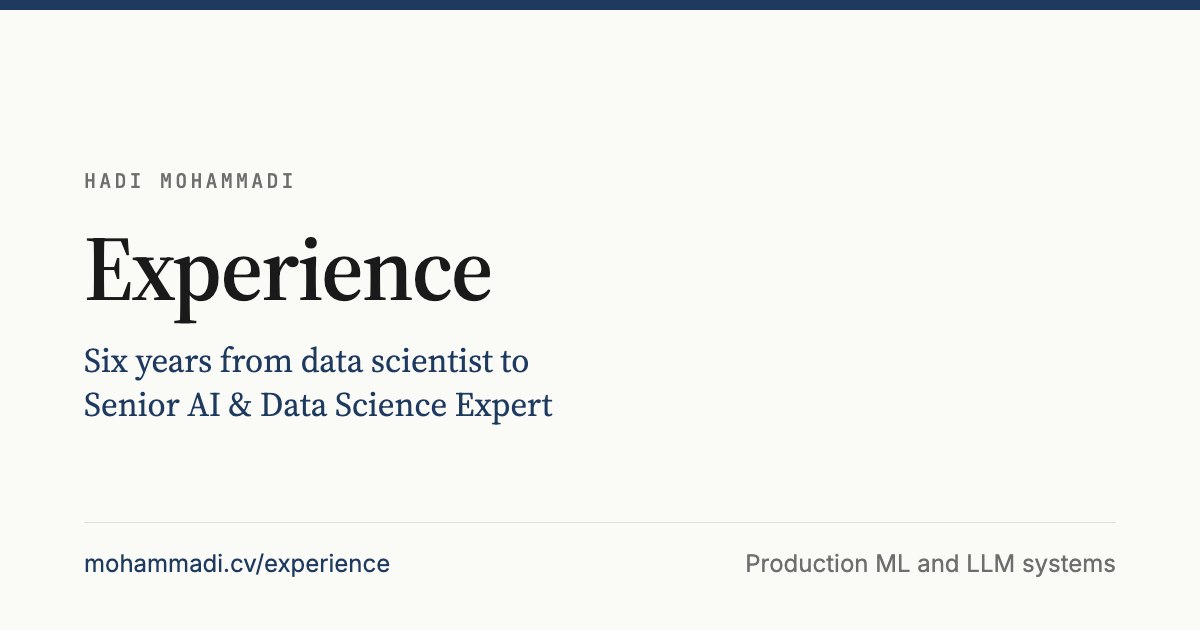
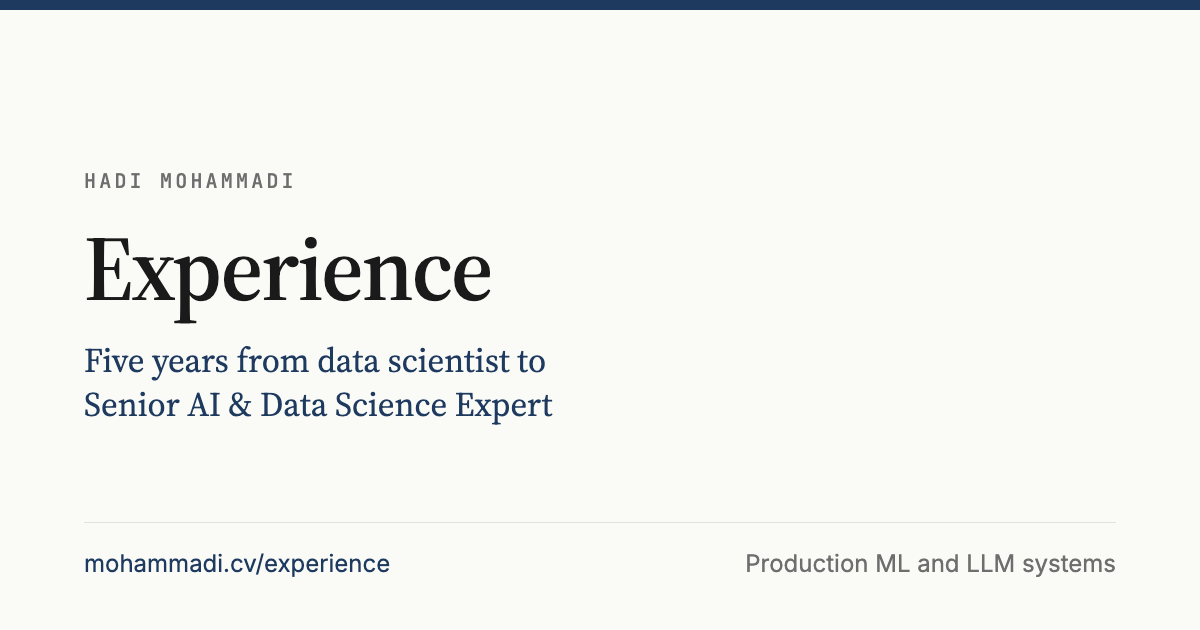
Update the site for the PhD defence and the R&D Specialist role

Changed region(s): [[0.0617, 0.5429, 0.4625, 0.6032]]

diff --git a/index.html b/index.html
@@ -15,7 +15,7 @@
   <meta property="og:image" content="https://mohammadi.cv/assets/img/og-card.jpg">
   <meta property="og:image:width" content="1200">
   <meta property="og:image:height" content="630">
-  <meta property="og:image:alt" content="Title card for Hadi Mohammadi — Machine Learning Scientist and NLP Researcher.">
+  <meta property="og:image:alt" content="Portrait of Hadi Mohammadi.">
   <meta property="og:url" content="https://mohammadi.cv/">
   <meta property="og:type" content="website">
 
@@ -31,7 +31,7 @@
     "@context": "https://schema.org",
     "@type": "Person",
     "name": "Hadi Mohammadi",
-    "jobTitle": "Senior AI & Data Science Expert · PhD in Explainable NLP",
+    "jobTitle": "Senior AI & Data Science Expert - R&D Specialist",
     "worksFor": { "@type": "Organization", "name": "AcademicTransfer" },
     "affiliation": { "@type": "Organization", "name": "Utrecht University" },
     "url": "https://mohammadi.cv/",
@@ -107,7 +107,7 @@
             <h1 class="hero-name">Hadi Mohammadi</h1>
             <p class="hero-role">I build production LLM and ranking systems, and research explainable NLP and LLM evaluation.</p>
             <p class="hero-intro">
-              Senior AI &amp; Data Science Expert at <a href="https://corporate.academictransfer.com/">AcademicTransfer</a> and
+              Senior AI &amp; Data Science Expert - R&amp;D Specialist at <a href="https://corporate.academictransfer.com/">AcademicTransfer</a> and
               PhD in Explainable NLP from <a href="https://www.uu.nl/">Utrecht University</a>.
               My work sits where the two meet: ML systems that are measurably useful in
               production, and research that makes them explainable and fair.
@@ -135,7 +135,7 @@
         </div>
         <div class="hero-stats">
           <div class="stat">
-            <div class="stat-value" data-scholar="citations">147</div>
+            <div class="stat-value" data-scholar="citations">151</div>
             <div class="stat-label">Citations</div>
           </div>
           <div class="stat">
@@ -143,14 +143,14 @@
             <div class="stat-label">Publications</div>
           </div>
           <div class="stat">
-            <div class="stat-value">6+</div>
+            <div class="stat-value">5+</div>
             <div class="stat-label">Years in ML</div>
           </div>
           <div class="stat">
             <div class="stat-value">€40K+</div>
             <div class="stat-label">Research grants</div>
           </div>
-          <p class="hero-stats-caption">Citations: <a href="https://scholar.google.com/citations?user=w4Jt-FAAAAAJ&amp;hl=en">Google Scholar</a> &middot; <span data-scholar-updated>updated July 2026</span></p>
+          <p class="hero-stats-caption">Citations: <a href="https://scholar.google.com/citations?user=w4Jt-FAAAAAJ&amp;hl=en">Google Scholar</a> &middot; <span data-scholar-updated>updated September 2026</span></p>
         </div>
       </div>
     </section>
@@ -165,14 +165,14 @@
         <div class="about-grid">
           <div class="prose">
             <p>
-              <strong>Six years</strong> of this work, most of it in industry. At
+              <strong>Five years</strong> of this work, most of it in industry. At
               <a href="https://corporate.academictransfer.com/">AcademicTransfer</a> I build the
               <strong>LLM matching and ranking</strong> that reads <strong>10,000+ applications a month</strong>;
               it has cut time-to-hire by <strong>20%</strong> and improved candidate–job matching by
               <strong>17%</strong>.
             </p>
             <p>
-              The PhD, at <a href="https://www.uu.nl/">Utrecht University</a>, is on
+              My PhD at <a href="https://www.uu.nl/">Utrecht University</a>, defended in September 2026, was on
               <strong>explainable NLP</strong>: why a model gave the answer it did, and whether that
               explanation can be trusted. So far, papers at <strong>ACL, ECAI and Applied Sciences</strong>
               and just over <strong>€40,000</strong> in grants.
@@ -182,7 +182,7 @@
             <li><span class="fact-key">CV</span> <a href="/assets/docs/HadiMohammadiCV.pdf">Download PDF</a></li>
             <li><span class="fact-key">Email</span> <a href="mailto:hadi.mohammadi@outlook.com">hadi.mohammadi@outlook.com</a></li>
             <li><span class="fact-key">Location</span> <span>Utrecht, The Netherlands</span></li>
-            <li><span class="fact-key">PhD</span> <span>Utrecht University, Feb 2023 – 2026</span></li>
+            <li><span class="fact-key">PhD</span> <span>Utrecht University, Feb 2023 – Sep 2026</span></li>
             <li><span class="fact-key">ORCID</span> <a href="https://orcid.org/0000-0003-0860-9200">0000-0003-0860-9200</a></li>
             <li><span class="fact-key">Scholar</span> <a href="https://scholar.google.com/citations?user=w4Jt-FAAAAAJ&amp;hl=en">Publications profile</a></li>
             <li><span class="fact-key">University</span> <a href="https://www.uu.nl/staff/HMohammadi">Official page</a></li>
@@ -198,7 +198,7 @@
           <a class="door" href="/experience/">
             <span class="kicker">Industry</span>
             <h3>Production ML &amp; LLM systems</h3>
-            <p>Six years from data scientist to senior AI roles: LLM matching, ranking, and
+            <p>Five years from data scientist to senior AI roles: LLM matching, ranking, and
               evaluation systems behind the recruitment platform of 22 Dutch research universities
               and university medical centres.</p>
             <span class="link-arrow">Experience &amp; CV</span>
@@ -228,9 +228,10 @@
               <li>
                 <span class="tl-date">Dec 2025 – now</span>
                 <div class="tl-body">
-                  <h3>Senior AI &amp; Data Science Expert</h3>
+                  <h3>Senior AI &amp; Data Science Expert - R&amp;D Specialist</h3>
                   <p class="tl-org">AcademicTransfer, Utrecht</p>
                   <ul>
+                    <li>Leads the company’s 2026 WBSO R&amp;D programme as R&amp;D Specialist since Mar 2026, with two projects approved for Mar–Dec 2026: an MCP-based academic query engine and an explainable CV matching engine with recruiters in the loop.</li>
                     <li>Technical lead of the AI intelligence layer and applicant-tracking system used by 22 Dutch research universities and university medical centres.</li>
                     <li>Leads AI strategy and applied data-science delivery; technical lead of three applied AI projects.</li>
                     <li>Owns the platform’s LLM services for CV–vacancy matching and vacancy-text optimisation.</li>
@@ -286,7 +287,7 @@
             <span class="kicker col-kicker">Education</span>
             <ul class="timeline">
               <li>
-                <span class="tl-date">Feb 2023 – 2026</span>
+                <span class="tl-date">Feb 2023 – Sep 2026</span>
                 <div class="tl-body">
                   <h3>PhD, Explainable NLP</h3>
                   <p class="tl-org">Utrecht University: Methodology, Statistics &amp; Data Science</p>
@@ -484,6 +485,8 @@
           <h2>Recent news &amp; updates</h2>
         </div>
         <ul class="news-list">
+          <li><span class="news-date">Sep 2026</span><span class="news-text"><strong>PhD defended</strong> at Utrecht University on 9 September 2026, with the thesis <em>“Let Me Explain! Explainable NLP for Understanding Large Language Models”</em>. <a href="/thesis/">About the thesis</a></span></li>
+          <li><span class="news-date">Mar 2026</span><span class="news-text"><strong>R&amp;D Specialist at AcademicTransfer</strong>, leading the company’s 2026 WBSO programme; both projects approved for March to December 2026.</span></li>
           <li><span class="news-date">Dec 2025</span><span class="news-text"><strong>Promoted to Senior AI &amp; Data Science Expert</strong> at AcademicTransfer, leading AI strategy and advanced data science initiatives for academic recruitment.</span></li>
           <li><span class="news-date">Dec 2025</span><span class="news-text"><strong>€5,000 Applied Data Science grant</strong> for “Optimizing the CV Priority Sorter for Fair and Efficient Prioritization of Academic CVs”, with Dr. Robert A. Bagheri, Dr. Georg Krempl, and Jeroen Sparla.</span></li>
           <li><span class="news-date">Dec 2025</span><span class="news-text"><strong>Best Oral Presentation Award</strong> at the IOPS Winter Conference 2025 for research on cultural moral alignment in LLMs. <a href="/events/IOPS2025/">Event details</a></span></li>

diff --git a/experience/index.html b/experience/index.html
@@ -5,12 +5,12 @@
   <meta name="viewport" content="width=device-width, initial-scale=1.0">
   <meta name="color-scheme" content="light">
   <title>Experience — Hadi Mohammadi</title>
-  <meta name="description" content="Industry experience of Hadi Mohammadi: six-plus years from data scientist to Senior AI &amp; Data Science Expert, building production LLM, ranking and recommendation systems at AcademicTransfer, Bdood and SnowaTec.">
+  <meta name="description" content="Industry experience of Hadi Mohammadi: five years from data scientist to Senior AI &amp; Data Science Expert, building production LLM, ranking and recommendation systems at AcademicTransfer, Bdood and SnowaTec.">
   <link rel="canonical" href="https://mohammadi.cv/experience/">
 
   <!-- Open Graph -->
   <meta property="og:title" content="Experience — Hadi Mohammadi">
-  <meta property="og:description" content="Six-plus years in industry, from data scientist to Senior AI &amp; Data Science Expert, building production LLM and ML systems.">
+  <meta property="og:description" content="Five years in industry, from data scientist to Senior AI &amp; Data Science Expert, building production LLM and ML systems.">
   <meta property="og:image" content="https://mohammadi.cv/assets/img/experience-card.png">
   <meta property="og:image:width" content="1200">
   <meta property="og:image:height" content="630">
@@ -21,7 +21,7 @@
   <!-- Twitter Card -->
   <meta name="twitter:card" content="summary_large_image">
   <meta name="twitter:title" content="Experience — Hadi Mohammadi">
-  <meta name="twitter:description" content="Six-plus years in industry, from data scientist to Senior AI &amp; Data Science Expert, building production LLM and ML systems.">
+  <meta name="twitter:description" content="Five years in industry, from data scientist to Senior AI &amp; Data Science Expert, building production LLM and ML systems.">
   <meta name="twitter:image" content="https://mohammadi.cv/assets/img/experience-card.png">
   <link rel="icon" href="/assets/img/favicon.png">
   <link rel="apple-touch-icon" href="/assets/img/apple-touch-icon.png">
@@ -73,7 +73,7 @@
       <div class="container">
         <span class="kicker">Experience</span>
         <h1>Experience</h1>
-        <p class="section-lede">Six-plus years in industry, from data scientist to Senior AI &amp; Data Science Expert, building production LLM and ML systems.</p>
+        <p class="section-lede">Five years in industry, from data scientist to Senior AI &amp; Data Science Expert, building production LLM and ML systems.</p>
       </div>
     </section>
 
@@ -87,9 +87,10 @@
           <li>
             <span class="tl-date">Dec 2025 &ndash; Present</span>
             <div class="tl-body">
-              <h3>Senior AI &amp; Data Science Expert</h3>
+              <h3>Senior AI &amp; Data Science Expert - R&amp;D Specialist</h3>
               <p class="tl-org"><a href="https://corporate.academictransfer.com/">AcademicTransfer</a>, Utrecht, Netherlands</p>
               <ul>
+                <li>Leading the company’s 2026 WBSO R&amp;D programme as R&amp;D Specialist since Mar 2026, with two projects approved for Mar&ndash;Dec 2026: an MCP-based academic query engine and an explainable CV matching engine with recruiters in the loop.</li>
                 <li>Technical lead of the AI intelligence layer and applicant-tracking system for AcademicTransfer, used by 22 Dutch research universities and university medical centres: CV creation and revision, semantic search, talent-pool matching, and best-candidate identification.</li>
                 <li>Technical lead of a recognition-and-rewards policy analysis with Dr. Sanli Faez (Universiteiten van Nederland) and university policy makers across the Netherlands.</li>
                 <li>Developing a new e-learning programme with the University of Amsterdam for PhD candidates and researchers.</li>
@@ -169,7 +170,7 @@
         </div>
         <ul class="timeline">
           <li>
-            <span class="tl-date">Feb 2023 &ndash; 2026</span>
+            <span class="tl-date">Feb 2023 &ndash; Sep 2026</span>
             <div class="tl-body">
               <h3>PhD, Explainable Natural Language Processing</h3>
               <p class="tl-org">Utrecht University</p>

diff --git a/thesis/flipbook/index.html b/thesis/flipbook/index.html
@@ -13,7 +13,7 @@
 <meta property="og:site_name" content="Hadi Mohammadi" />
 <meta property="og:url" content="https://mohammadi.cv/thesis/flipbook/" />
 <meta property="og:title" content="Let Me Explain! — PhD thesis by Hadi Mohammadi" />
-<meta property="og:description" content="Explainable NLP for Understanding Large Language Models. Utrecht University — public defence 9 September 2026." />
+<meta property="og:description" content="Explainable NLP for Understanding Large Language Models. PhD thesis, Utrecht University, defended 9 September 2026." />
 <meta property="og:image" content="https://mohammadi.cv/assets/img/thesis/og-thesis.jpg" />
 <meta property="og:image:secure_url" content="https://mohammadi.cv/assets/img/thesis/og-thesis.jpg" />
 <meta property="og:image:type" content="image/jpeg" />
@@ -22,7 +22,7 @@
 <meta property="og:image:alt" content="The thesis cover beside its title, author and defence date." />
 <meta name="twitter:card" content="summary_large_image" />
 <meta name="twitter:title" content="Let Me Explain! — PhD thesis by Hadi Mohammadi" />
-<meta name="twitter:description" content="Explainable NLP for Understanding Large Language Models. Utrecht University — public defence 9 September 2026." />
+<meta name="twitter:description" content="Explainable NLP for Understanding Large Language Models. PhD thesis, Utrecht University, defended 9 September 2026." />
 <meta name="twitter:image" content="https://mohammadi.cv/assets/img/thesis/og-thesis.jpg" />
 <link rel="icon" type="image/png" href="https://mohammadi.cv/assets/img/favicon.png" />
 <link rel="apple-touch-icon" href="https://mohammadi.cv/assets/img/apple-touch-icon.png" />
@@ -41,7 +41,7 @@
     <span class="fb-dot">·</span>
     <span>PhD thesis, Utrecht University</span>
     <span class="fb-dot">·</span>
-    <span>Public defense 9 September 2026, 14:15</span>
+    <span>Defended 9 September 2026</span>
   </div>
   <a class="fb-sitelink" href="https://mohammadi.cv/thesis/" target="_blank" rel="noopener" title="Chapters, papers and defense details">About this thesis&nbsp;&rarr;</a>
 </header>

diff --git a/news/index.html b/news/index.html
@@ -81,10 +81,24 @@
       <div class="container">
         <div class="section-head">
           <span class="kicker"><span class="kicker-num">01</span>Archive</span>
-          <h2>2023 &ndash; 2025</h2>
+          <h2>2023 &ndash; 2026</h2>
         </div>
 
         <ul class="news-list">
+          <li>
+            <span class="news-date">Sep 2026</span>
+            <div class="news-text">
+              <strong>PhD defended at Utrecht University.</strong>
+              Defended the thesis &ldquo;Let Me Explain! Explainable NLP for Understanding Large Language Models&rdquo; on 9 September 2026 in the Academiegebouw, Utrecht. <a href="/thesis/">About the thesis</a>
+            </div>
+          </li>
+          <li>
+            <span class="news-date">Mar 2026</span>
+            <div class="news-text">
+              <strong>R&amp;D Specialist at AcademicTransfer.</strong>
+              Took on the R&amp;D Specialist role alongside the senior AI position, leading the company&rsquo;s 2026 WBSO programme. Both projects were approved for March to December 2026.
+            </div>
+          </li>
           <li>
             <span class="news-date">Dec 2025</span>
             <div class="news-text">

diff --git a/thesis/index.html b/thesis/index.html
@@ -468,7 +468,7 @@
       </div>
 
       <p class="hero-author">by <strong>Hadi Mohammadi</strong></p>
-      <p class="hero-status">Public defense &middot; 9 September 2026, 14:15 &middot; Utrecht University</p>
+      <p class="hero-status">Defended &middot; 9 September 2026 &middot; Utrecht University</p>
     </div>
   </header>
 
@@ -486,7 +486,7 @@
       </div>
     </div>
     <div class="prose">
-      <p>The official record is in the <a href="https://research-portal.uu.nl/en/publications/let-me-explain-explainable-nlp-for-understanding-large-language-m/" target="_blank" rel="noopener">Utrecht University repository</a>, under DOI <a href="https://doi.org/10.33540/3756" target="_blank" rel="noopener">10.33540/3756</a>. The archived PDF opens there on 4 September 2026.</p>
+      <p>The official record is in the <a href="https://research-portal.uu.nl/en/publications/let-me-explain-explainable-nlp-for-understanding-large-language-m/" target="_blank" rel="noopener">Utrecht University repository</a>, under DOI <a href="https://doi.org/10.33540/3756" target="_blank" rel="noopener">10.33540/3756</a>.</p>
     </div>
   </section>
 

diff --git a/summer-school/index.html b/summer-school/index.html
@@ -231,7 +231,7 @@
     <h2 class="sk">Instructor</h2>
     <div class="author">
       <p><a href="/">Hadi Mohammadi</a> researches explainable NLP at Utrecht University and is a Senior
-        AI &amp; Data Science Expert at AcademicTransfer. The school is built on his book
+        AI &amp; Data Science Expert and R&amp;D Specialist at AcademicTransfer. The school is built on his book
         <a href="/book/"><em>Hands-On Explainable AI: Interpreting, Evaluating, and Trusting Large Language Models</em></a>;
         the afternoon labs are its
         <a href="https://github.com/mohammadi-hadi/hands-on-xai-labs" rel="noopener">citable companion notebooks</a>

diff --git a/scripts/make_cards.py b/scripts/make_cards.py
@@ -117,7 +117,7 @@ CARDS = [
          foot_left="mohammadi.cv/projects", foot_right="Papers · grants · code"),
     dict(name="experience-card", out="assets/img", kicker="Hadi Mohammadi",
          title="Experience",
-         subtitle="Six years from data scientist to Senior AI & Data Science Expert",
+         subtitle="Five years from data scientist to Senior AI & Data Science Expert",
          foot_left="mohammadi.cv/experience", foot_right="Production ML and LLM systems"),
     dict(name="teaching-card", out="assets/img", kicker="Hadi Mohammadi",
          title="Teaching",

diff --git a/README.md b/README.md
@@ -6,7 +6,7 @@
 [![Scholar](https://github.com/mohammadi-hadi/mohammadi-hadi.github.io/actions/workflows/scholar.yml/badge.svg)](https://github.com/mohammadi-hadi/mohammadi-hadi.github.io/actions/workflows/scholar.yml)
 [![License: MIT](https://img.shields.io/badge/License-MIT-yellow.svg)](LICENSE)
 
-*Personal academic website of Hadi Mohammadi — PhD researcher in Explainable NLP at Utrecht University.*
+*Personal academic website of Hadi Mohammadi, researcher in explainable NLP at Utrecht University (PhD 2026) and Senior AI & Data Science Expert - R&D Specialist at AcademicTransfer.*
 
 </div>
 
